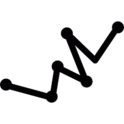
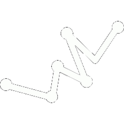
Fixed image paths/inverted images

Changed region(s): [[0.0, 0.1452, 1.0, 0.8468]]

diff --git a/Assignment2/src/ca/utoronto/utm/paint/ShapeChooserPanel.java b/Assignment2/src/ca/utoronto/utm/paint/ShapeChooserPanel.java
@@ -27,7 +27,9 @@ class ShapeChooserPanel extends JPanel implements ActionListener {
 		this.setLayout(new GridLayout(buttonLabels.length, 1));
 		for (String label : buttonLabels) {
 			JButton button = new JButton(label);
-			button.setIcon(new ImageIcon(new ImageIcon(this.getClass().getResource(icons[i])).getImage()));
+			
+			ImageIcon icon = new ImageIcon("images\\" + icons[i]);
+			button.setIcon(icon);
 			i++;
 			this.add(button);
 			styleButtons(button);
@@ -40,10 +42,10 @@ class ShapeChooserPanel extends JPanel implements ActionListener {
 		button.setFont(new Font("Arial", Font.BOLD, 22));
 		button.setVerticalTextPosition(3);
 		button.setHorizontalTextPosition(0);
-		button.setBackground(Color.DARK_GRAY);
+		button.setBackground(new Color(60, 60, 60));
 		button.setForeground(new Color(255, 3, 118));
 		Border line = new LineBorder(Color.BLACK);
-		Border margin = new EmptyBorder(2, 5, 2, 5);
+		Border margin = new EmptyBorder(3, 7, 3, 7);
 		Border compound = new CompoundBorder(line, margin);
 		button.setBorder(compound);
 	}
@@ -55,7 +57,7 @@ class ShapeChooserPanel extends JPanel implements ActionListener {
 	public void actionPerformed(ActionEvent e) {
 		JButton button = (JButton) e.getSource();
 		Border line = new LineBorder(Color.GREEN);
-		Border margin = new EmptyBorder(2, 5, 2, 5);
+		Border margin = new EmptyBorder(3, 7, 3, 7);
 		Border compound = new CompoundBorder(line, margin);
 		button.setBorder(compound);
 		if(this.previousButtonClick != null) {

diff --git a/Assignment2/src/ca/utoronto/utm/paint/PaintPanel.java b/Assignment2/src/ca/utoronto/utm/paint/PaintPanel.java
@@ -53,8 +53,7 @@ class PaintPanel extends JPanel implements Observer, MouseMotionListener, MouseL
 		// Origin is at the top left of the window 50 over, 75 down
 		//int strokeSize = this.view.getPalletePanel().getBrushSize();
         //g2d.setStroke(new BasicStroke(strokeSize));
-        /*g2d.setRenderingHint(RenderingHints.KEY_ANTIALIASING,
-        		RenderingHints.VALUE_ANTIALIAS_ON);*/
+        g2d.setRenderingHint(RenderingHints.KEY_ANTIALIASING,RenderingHints.VALUE_ANTIALIAS_ON);
         g2d.setColor(Color.black);
         //g2d.drawString ("i="+i, 50, 75);
 		//i=i+1;
